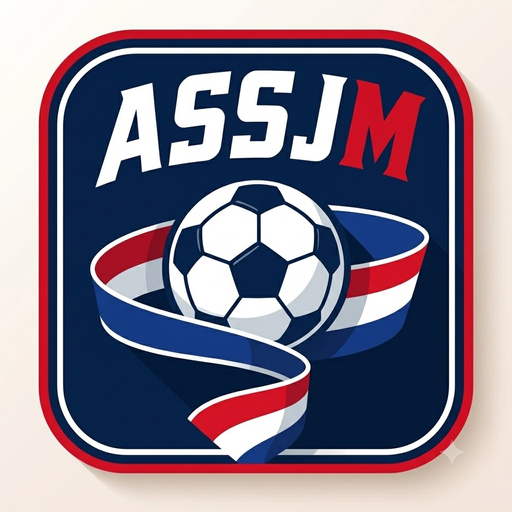
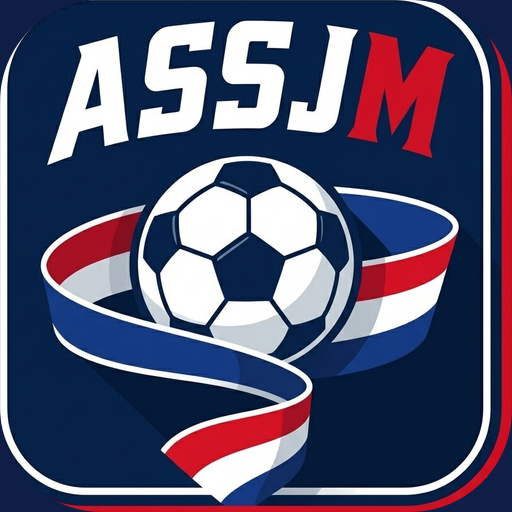
fix: upload resilient (sans sharp), icone sans bord blanc, stats carte FUT non rognees
1. Upload photo: sharp ne se charge pas en serverless Vercel (Could not load
   the sharp module) -> saveUploadedImage tente sharp puis, en repli, stocke
   l'image d'origine telle quelle au lieu d'echouer. L'upload marche toujours.
2. Icone app: le icon-source.png avait un cadre creme -> make-icons le detoure
   (trim), remplit bord-a-bord, arrondit les coins sur fond marine. Plus de
   bord blanc. Icones 192/512/180 regenerees.
3. Carte FUT: la photo (taille fixe) empechait les 6 stats de tenir dans le
   ratio fixe -> photo rendue flexible (min-h-0 + h-full plafonne). PAS/PHY
   ne sont plus rognees. Verifie au navigateur (viewport mobile).

diff --git a/src/lib/upload.ts b/src/lib/upload.ts
@@ -1,36 +1,54 @@
 import { putImage } from "@/lib/storage";
 
 const ALLOWED = ["image/png", "image/jpeg", "image/webp", "image/gif"];
-const MAX_BYTES = 8 * 1024 * 1024; // 8 Mo en entrée (on compresse derrière)
+const EXT_BY_TYPE: Record<string, string> = {
+  "image/png": "png",
+  "image/jpeg": "jpg",
+  "image/webp": "webp",
+  "image/gif": "gif",
+};
+const MAX_BYTES = 8 * 1024 * 1024; // 8 Mo en entrée (on compresse derrière si possible)
 const MAX_DIM = 1024; // dimension max après redimensionnement
 
 /**
- * Enregistre une image uploadée — redimensionnée et compressée en WebP (via
- * sharp) pour rester légère. Renvoie son URL publique. La persistance passe par
+ * Enregistre une image uploadée et renvoie son URL publique. Persistance via
  * `@/lib/storage` : disque local en dev, Vercel Blob en prod (voir storage.ts).
+ *
+ * Compression : on TENTE de redimensionner + convertir en WebP via `sharp`,
+ * mais `sharp` est un module natif qui ne se charge pas toujours en serverless
+ * (Vercel). En cas d'échec, on **stocke l'image d'origine telle quelle** plutôt
+ * que de faire échouer l'upload — la fonctionnalité prime sur l'optimisation.
  */
 export async function saveUploadedImage(file: File): Promise<{ url?: string; error?: string }> {
   if (!file || file.size === 0) return { error: "Aucun fichier sélectionné." };
   if (!ALLOWED.includes(file.type)) return { error: "Format non supporté (PNG, JPG, WEBP, GIF)." };
   if (file.size > MAX_BYTES) return { error: "Image trop lourde (max 8 Mo)." };
 
-  const name = `${Date.now().toString(36)}-${Math.random().toString(36).slice(2, 8)}.webp`;
+  const slug = `${Date.now().toString(36)}-${Math.random().toString(36).slice(2, 8)}`;
   const input = Buffer.from(await file.arrayBuffer());
 
+  // 1) Tentative de compression via sharp (import dynamique : un échec de
+  //    chargement du module natif ne doit pas casser le fichier entier).
   try {
-    // Import dynamique : `sharp` est un module natif. Le charger paresseusement
-    // évite qu'un échec de chargement (ex. binaire manquant sur la plateforme)
-    // ne casse au niveau module toutes les actions qui importent ce fichier.
     const { default: sharp } = await import("sharp");
     const output = await sharp(input)
       .rotate() // respecte l'orientation EXIF
       .resize(MAX_DIM, MAX_DIM, { fit: "inside", withoutEnlargement: true })
       .webp({ quality: 80 })
       .toBuffer();
-    const url = await putImage(name, output);
+    const url = await putImage(`${slug}.webp`, output, "image/webp");
     return { url };
   } catch (err) {
-    console.error("saveUploadedImage:", err);
-    return { error: "Traitement de l'image impossible. Réessaie plus tard." };
+    console.error("saveUploadedImage: compression sharp indisponible, stockage de l'original —", err);
+  }
+
+  // 2) Repli : stocker l'image d'origine sans compression (déjà validée).
+  try {
+    const ext = EXT_BY_TYPE[file.type] ?? "img";
+    const url = await putImage(`${slug}.${ext}`, input, file.type);
+    return { url };
+  } catch (err) {
+    console.error("saveUploadedImage: échec du stockage —", err);
+    return { error: "Enregistrement de l'image impossible. Réessaie plus tard." };
   }
 }

diff --git a/src/lib/storage.ts b/src/lib/storage.ts
@@ -31,17 +31,22 @@ export function usingBlobs(): boolean {
 }
 
 /**
- * Persiste une image (déjà compressée en WebP) et renvoie son URL publique.
+ * Persiste une image et renvoie son URL publique. `contentType` décrit les
+ * octets stockés (image/webp si compressé via sharp, sinon le type d'origine).
  * Pour Vercel Blob, l'URL est absolue (CDN) ; sinon relative au site.
  */
-export async function putImage(name: string, data: Buffer): Promise<string> {
+export async function putImage(
+  name: string,
+  data: Buffer,
+  contentType = "image/webp",
+): Promise<string> {
   if (USE_VERCEL_BLOB) {
     const { put } = await import("@vercel/blob");
     // `put` lit automatiquement BLOB_READ_WRITE_TOKEN dans l'environnement.
     // Le nom est déjà unique (timestamp + aléa) → pas de suffixe aléatoire.
     const res = await put(`${STORE}/${name}`, data, {
       access: "public",
-      contentType: "image/webp",
+      contentType,
       addRandomSuffix: false,
     });
     return res.url;

diff --git a/src/components/player/player-card.tsx b/src/components/player/player-card.tsx
@@ -133,17 +133,18 @@ export function PlayerCard({
           <Crest className="h-12 w-auto drop-shadow" />
         </div>
 
-        {/* Photo / monogramme central */}
-        <div className="relative my-3 grid flex-1 place-items-center">
+        {/* Photo / monogramme central — flexible : absorbe l'espace restant
+            (min-h-0 + h-full plafonné) pour que les 6 stats tiennent toujours. */}
+        <div className="relative my-2 grid min-h-0 flex-1 place-items-center">
           {player.photo ? (
             // eslint-disable-next-line @next/next/no-img-element
             <img
               src={player.photo}
               alt={`${player.firstName} ${player.lastName}`}
-              className="size-24 rounded-full object-cover ring-2 ring-white/30"
+              className="aspect-square h-full max-h-24 min-h-14 w-auto rounded-full object-cover ring-2 ring-white/30"
             />
           ) : (
-            <div className="grid size-24 place-items-center rounded-full bg-gradient-to-br from-white/20 to-white/5 font-display text-3xl font-extrabold ring-2 ring-white/20">
+            <div className="grid aspect-square h-full max-h-24 min-h-14 w-auto place-items-center rounded-full bg-gradient-to-br from-white/20 to-white/5 font-display text-3xl font-extrabold ring-2 ring-white/20">
               {initials(`${player.firstName} ${player.lastName}`)}
             </div>
           )}